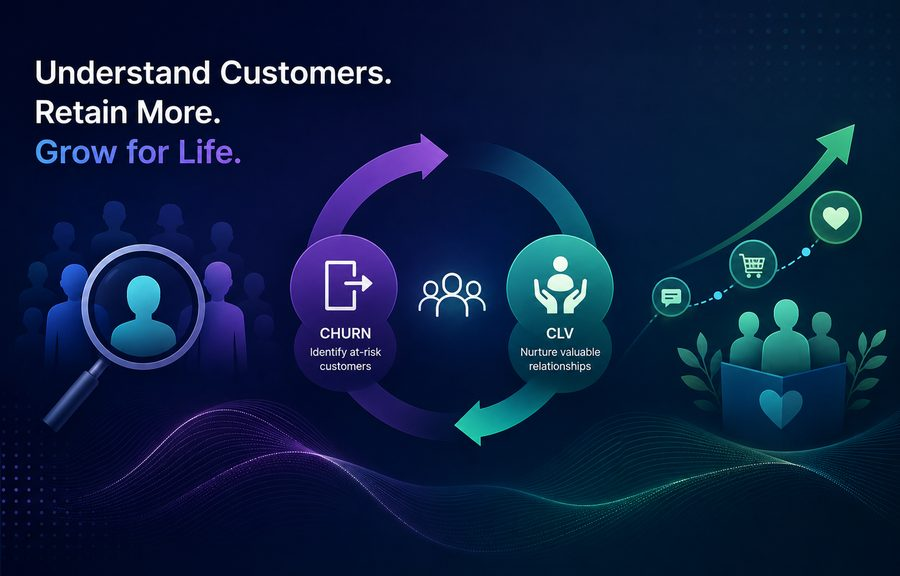
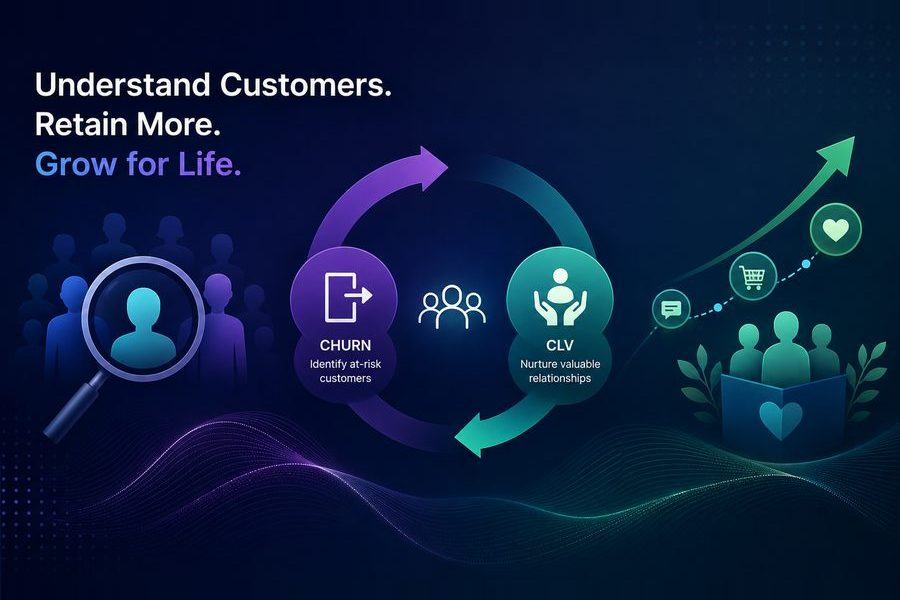
Fit the whole artwork: 3:2 cards in two columns
The card takes the artwork's own 3:2 shape instead of a fixed 25.5rem
height, so cover crops nothing. Two of the six frames were a few pixels
off 3:2, so they are padded to match by clamping their own edge rows
outward, which is invisible against artwork this dark.

Six cards now read two across and three down. Below 940px that would
squeeze the back face past the 3:2 box, so the grid drops to one column
there rather than clipping the description.

diff --git a/css/site.css b/css/site.css
@@ -238,13 +238,15 @@ section{scroll-margin-top:5.5rem}
 .role li b{font-family:var(--mono);font-size:.9em;font-weight:500;color:var(--accent-deep);letter-spacing:-.02em}
 
 /* ================= PROJECT CARDS (3D flip) ======================= */
-.work-grid{display:grid;grid-template-columns:repeat(3,minmax(0,1fr));gap:1.5rem}
+.work-grid{display:grid;grid-template-columns:repeat(2,minmax(0,1fr));gap:1.5rem}
+/* one column once two would squeeze the back face past the 3:2 box */
+@media(max-width:940px){.work-grid{grid-template-columns:1fr}}
 
 .pcard{
   --tint:rgba(30,79,216,.07);
   --tint-line:rgba(30,79,216,.22);
   --tint-ink:#1739a8;
-  display:block;height:25.5rem;perspective:1500px;
+  display:block;aspect-ratio:3/2;perspective:1500px;
   text-decoration:none;color:inherit;border-radius:20px;
 }
 .pcard:nth-child(3n+2){--tint:rgba(13,124,128,.08);--tint-line:rgba(13,124,128,.24);--tint-ink:#0b5f62}
@@ -328,7 +330,7 @@ section{scroll-margin-top:5.5rem}
 
 /* touch and reduced motion: no rotation, both faces stacked */
 @media (hover:none){
-  .pcard{height:auto;perspective:none}
+  .pcard{height:auto;aspect-ratio:auto;perspective:none}
   .pcard-3d{transform:none !important;transform-style:flat}
   .pcard-face{
     position:relative;inset:auto;transform:none;
@@ -419,7 +421,6 @@ section{scroll-margin-top:5.5rem}
   .role-head .date{grid-column:1/-1;order:-1}
   .post{grid-template-columns:1fr auto}
   .post .date{grid-column:1/-1;order:-1}
-  .work-grid{grid-template-columns:repeat(2,minmax(0,1fr))}
 
   .burger{display:flex}
   .nav-links{
